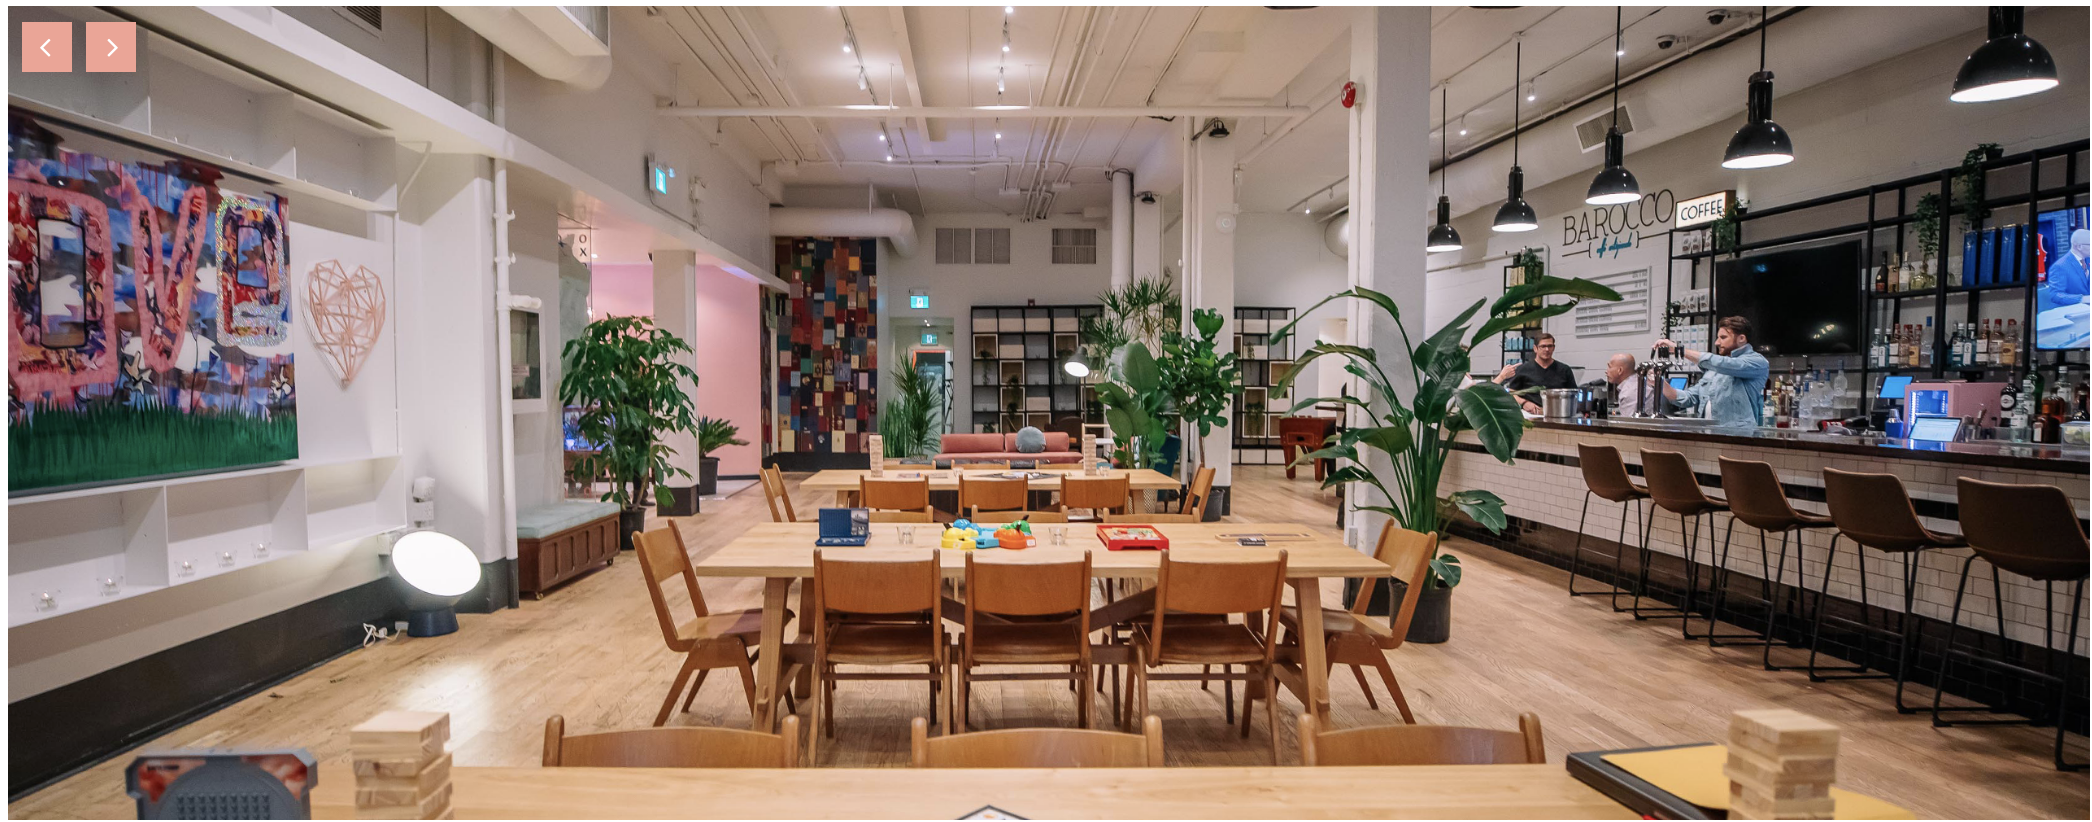
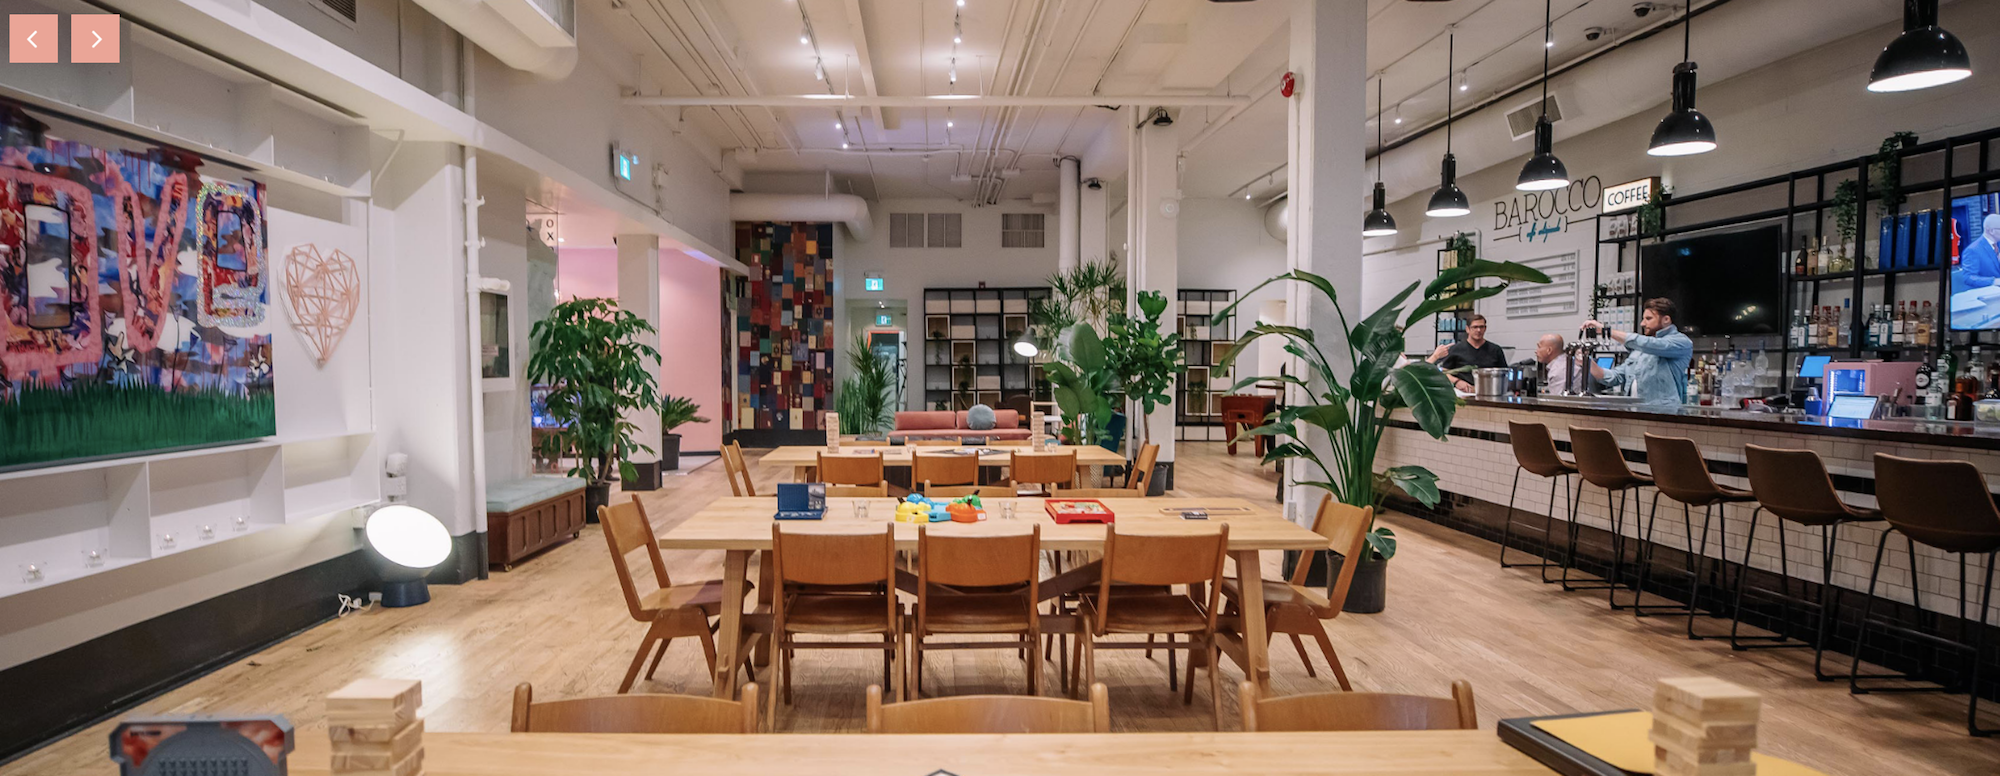
add in bar pic with diff resolutions, begin srcset

diff --git a/src/index.html b/src/index.html
@@ -14,8 +14,15 @@
         <img src="assets/img/mobileMenuButton.png" alt="Mobile Menu">
       </div>
     </div>
-    <div class="bannerPicture">
-      <img src="assets/img/bar.png" alt="social area with a bar">
+    <div class="bannerPictureContainer">
+      <div class="bannerPicture">
+        <img class="image"
+        srcset="ssets/img/bar-500.png 500w,
+                ssets/img/bar-1000.png 1000w,
+                assets/img/bar.png 2000w"
+        src="assets/img/bar.png"
+        alt="social area with a bar">
+      </div>
     </div>
     <div class="amenitiesContent">
 

diff --git a/src/sass/styles.scss b/src/sass/styles.scss
@@ -45,3 +45,12 @@ body {
     }
   }
 }
+
+.bannerPictureContainer {
+  min-height: 600px;
+  .bannerPicture {
+    img {
+      width: 100%;
+    }
+  }
+}
